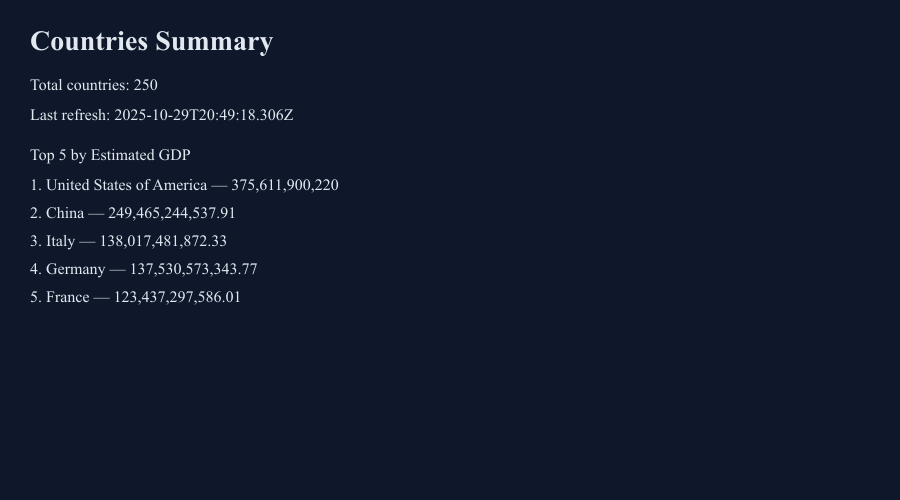
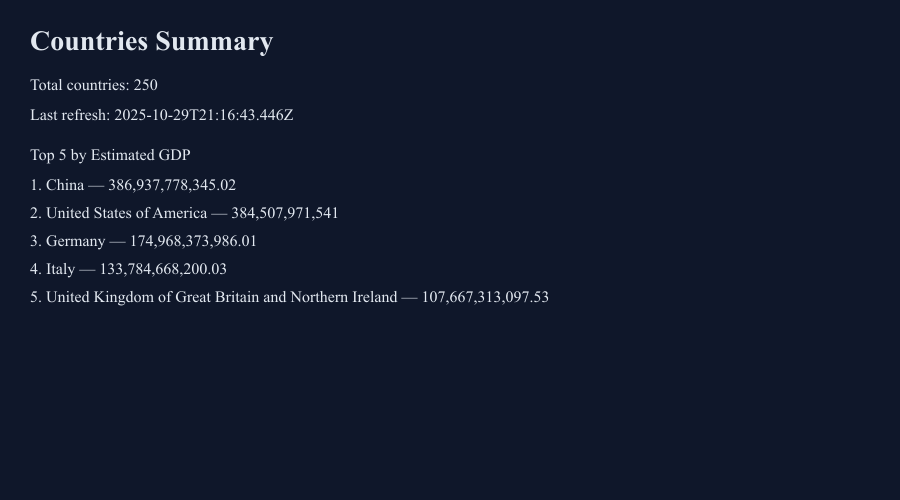
feat(status): add GET /status

Changed region(s): [[0.0311, 0.36, 0.6222, 0.63], [0.2178, 0.21, 0.3111, 0.24]]

diff --git a/controllers/statusController.js b/controllers/statusController.js
@@ -1,0 +1,17 @@
+import pool from '../DB/pool.js';
+
+export const getStatus = async (req, res) => {
+    try {
+        const [[countRow]] = await pool.query('SELECT COUNT(*) AS total FROM countries');
+        const [[metaRow]] = await pool.query(
+          "SELECT v AS last_refreshed_at FROM app_meta WHERE k='last_refreshed_at' LIMIT 1"
+        );
+        return res.json({
+          total_countries: Number(countRow?.total || 0),
+          last_refreshed_at: metaRow?.last_refreshed_at || null
+        });
+      } catch (e) {
+        console.error(e);
+        return res.status(500).json({ error: 'Internal server error' });
+      }
+}

diff --git a/routes/countriesRoutes.js b/routes/countriesRoutes.js
@@ -1,12 +1,11 @@
 import express from "express";
-import { refreshCountry, getCountries, getImage, getCountry, deleteCountry, getStatus } from "../controllers/countriesControllers.js";
+import { refreshCountry, getCountries, getImage, getCountry, deleteCountry} from "../controllers/countriesControllers.js";
 
 const countriesRouter = express.Router();
 
 countriesRouter.post('/refresh', refreshCountry);
 countriesRouter.get('/', getCountries);
 countriesRouter.get('/image', getImage);
-countriesRouter.get('/status', getStatus); 
 countriesRouter.get('/:name', getCountry);
 countriesRouter.delete('/:name', deleteCountry);
 

diff --git a/server.js b/server.js
@@ -1,6 +1,7 @@
 import express from "express";
 import dotenv from "dotenv";
 import countriesRouter from "./routes/countriesRoutes.js";
+import statusRouter from "./routes/statusRoutes.js";
 
 dotenv.config();
 
@@ -14,6 +15,7 @@ app.get("/", (req, res) => {
 })
 
 app.use("/countries", countriesRouter);
+app.use('/status', statusRouter);
 
 app.listen(PORT, () => {
     console.log(`server running at ${PORT}`)

diff --git a/controllers/countriesControllers.js b/controllers/countriesControllers.js
@@ -101,7 +101,3 @@ export const deleteCountry = async (req, res) => {
         return res.status(500).json({ error: 'Internal server error' });
       }
 }
-
-export const getStatus = async (req, res) => {
-    res.json({ total_countries: 0, last_refreshed_at: null });
-}

diff --git a/routes/statusRoutes.js b/routes/statusRoutes.js
@@ -1,0 +1,8 @@
+import express from "express";
+import { getStatus } from "../controllers/statusController.js";
+
+const statusRouter = express.Router();
+
+statusRouter.get('/', getStatus); 
+
+export default statusRouter;
